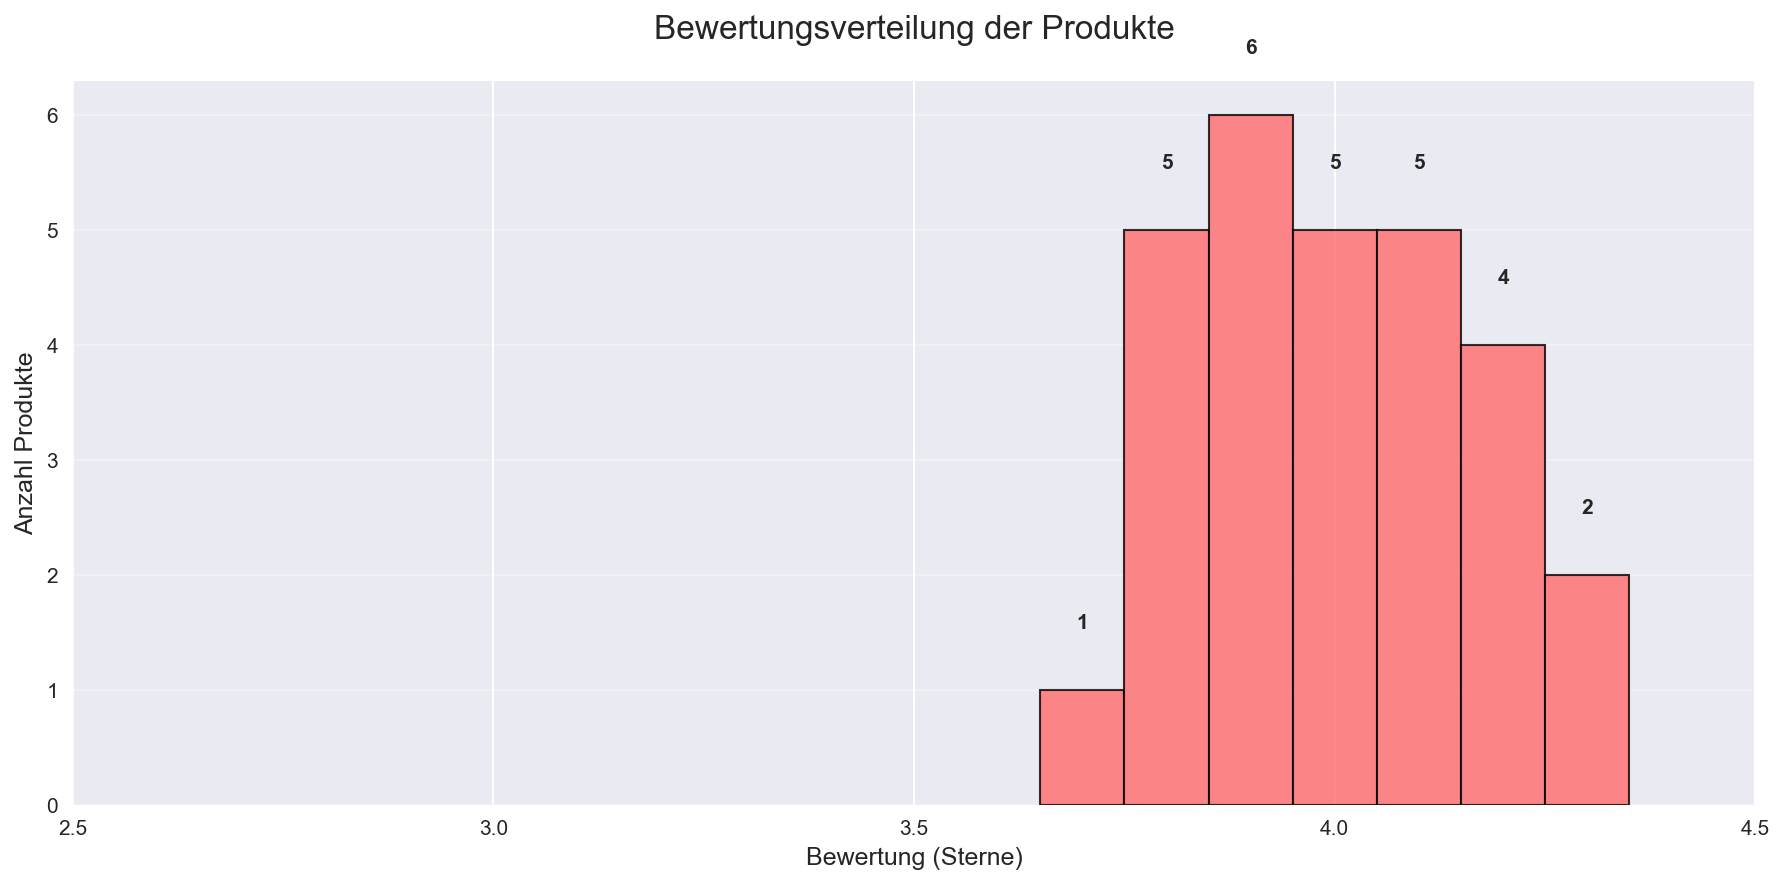
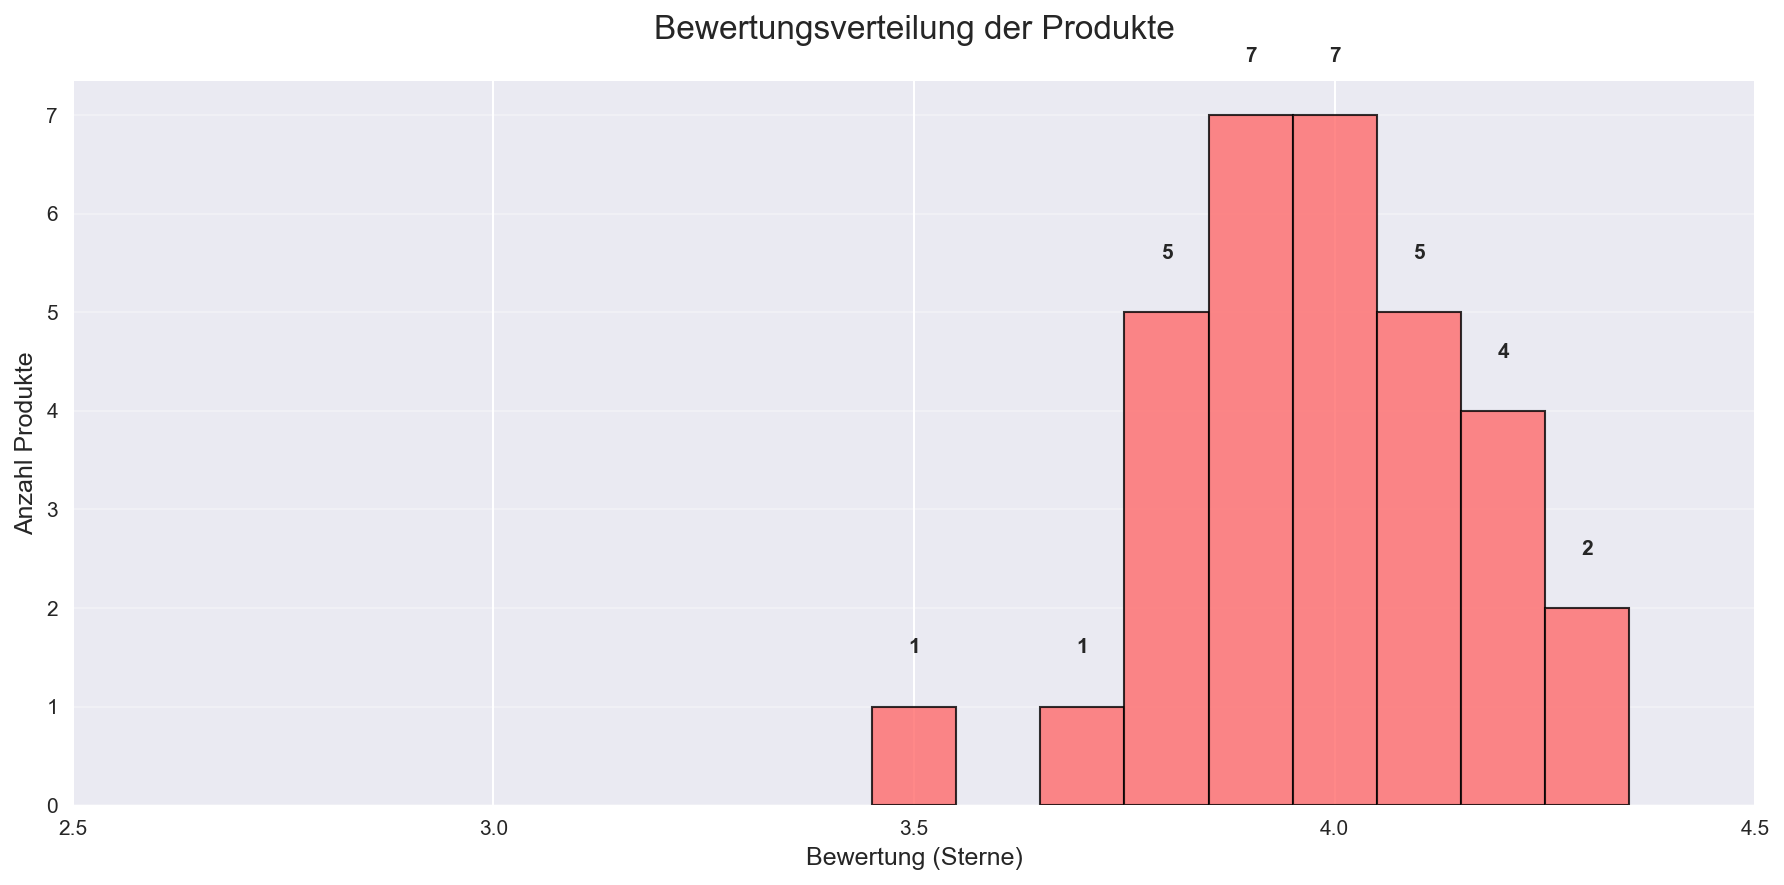
Add 4 additional cannabis products: OG Kush, Platinum Girl Scout Cookies, Blue Dream, White Widow, Island Sweet Skunk, Cheddar Cheese

diff --git a/docs/SORTEN_ÜBERSICHT.md b/docs/SORTEN_ÜBERSICHT.md
@@ -5,7 +5,7 @@
 # Sortenübersicht (Sortiert nach Anzahl der Bewertungen)
 
 Diese Übersicht wird automatisch aus der `../data/WeedDB.db` Datenbank generiert.
-**Letzte Aktualisierung:** 15.11.2025 01:26
+**Letzte Aktualisierung:** 15.11.2025 01:31
 
 Um diese Datei zu aktualisieren, führe aus: `python3 generate_overview.py`
 
@@ -16,7 +16,7 @@ Hier ist eine Zusammenfassung der Top-Sorten in verschiedenen Kategorien, inklus
 | Kategorie | Sorte | Link |
 | :--- | :--- | :--- |
 | **Höchster THC-Gehalt** | Amnesia Haze Cake | [Link](https://shop.dransay.com/product/p/460) |
-| **Bestes Preis-Leistungs-Verhältnis** | Wedding Cake | [Link](https://shop.dransay.com/product/p/1036) |
+| **Bestes Preis-Leistungs-Verhältnis** | Cheddar Cheese | [Link](https://shop.dransay.com/product/p/3989320) |
 | **Günstigster Preis** | Pink Kush | [Link](https://shop.dransay.com/product/p/751) |
 | **Community-Liebling (Beste Bewertung)** | Amnesia Haze Cake | [Link](https://shop.dransay.com/product/p/460) |
 | **Am populärsten (Meiste Reviews)** | Sourdough | [Link](https://shop.dransay.com/product/p/973) |
@@ -41,26 +41,30 @@ Sorten, die in einer der Top-Kategorien die besten sind, sind in der folgenden T
 | [Black Cherry Punch](https://shop.dransay.com/product/p/698) | Enua | 22.0 | Indica | 4.1 | 1559 | 4.13 |
 | [Chemango Kush](https://shop.dransay.com/product/p/953) | Aurora Cannabis | 31.0 | Indica | 4.1 | 1337 | 6.83 |
 | [Amnesia Haze Cake](https://shop.dransay.com/product/p/460) 🏆 **Community-Liebling** 🏆 **Höchster THC-Gehalt** | Avaay | 32.0 | Indica | 4.3 | 1267 | 9.48 |
+| [White Widow](https://shop.dransay.com/product/p/808) | N/A | 16.0 | Indica | 3.5 | 1136 | 4.05 |
 | [Big Purple Dragon](https://shop.dransay.com/product/p/174099) | Cantourage | 25.0 | Indica | 3.9 | 1102 | 4.59 |
 | [Blue Z](https://shop.dransay.com/product/p/423) | Bathera | 28.0 | Indica | 4.2 | 1038 | 7.08 |
+| [OG Kush](https://shop.dransay.com/product/p/882) | Cannamedical | 24.0 | Indica | 3.9 | 756 | 4.98 |
 | [Polar Cookies](https://shop.dransay.com/product/p/91) | Cannamedical | 28.0 | Indica | 4.0 | 624 | 7.36 |
 | [OG Lime Kush](https://shop.dransay.com/product/p/3603596) | ZOIKS | 26.0 | Indica | 4.0 | 584 | N/A |
 | [Farm Gas](https://shop.dransay.com/product/p/620) | Aurora Cannabis | 27.0 | Indica | 3.9 | 512 | 4.98 |
 | [Mac Doughnut](https://shop.dransay.com/product/p/622) | Cantourage | 25.0 | Indica | 3.8 | 499 | 4.99 |
+| [Island Sweet Skunk](https://shop.dransay.com/product/p/845) | Aurora Cannabis | 20.0 | Indica | 3.9 | 470 | 4.7 |
 | [Tropic Thunder](https://shop.dransay.com/product/p/1113) | Cantourage | 25.0 | Indica | 4.0 | 461 | 4.99 |
 | [Tubitti Frubitti](https://shop.dransay.com/product/p/3426990) | Avaay | 31.0 | Indica | 4.2 | 440 | N/A |
 | [Pink Kush](https://shop.dransay.com/product/p/751) 🏆 **Günstigster Preis** | enua Pharma | 22.0 | Indica | 3.9 | 300 | 3.5 |
 | [Ultra Dosed Candy](https://shop.dransay.com/product/p/3429693) | Barongo | 24.0 | Indica | 4.3 | 229 | 5.99 |
 | [Haymaker Haze](https://shop.dransay.com/product/p/1495373) | Tyson | 32.0 | Indica | 4.1 | 202 | 8.38 |
-| [Sweets (Guava Gelato x Karma Sour Diesel BX2)](https://shop.dransay.com/product/p/1081) | enua Pharma | 22.0 | Indica | 3.7 | 200 | 4.15 |
+| [Sweets (Guava Gelato x Karma Sour Diesel BX2)](https://shop.dransay.com/product/p/1081) | enua Pharma | 22.0 | Indica | 3.7 | 201 | 4.15 |
 | [Pineapple Express](https://shop.dransay.com/product/p/3587105) | Cannamedical | 24.0 | Indica | 3.8 | 182 | 5.99 |
 | [Frozen Lemon Haze](https://shop.dransay.com/product/p/3603598) | Aurora Cannabis | 25.0 | Indica | 4.2 | 152 | 7.29 |
 | [LA Animal](https://shop.dransay.com/product/p/3826820) | Barongo | 30.0 | Indica | 4.1 | 122 | 6.99 |
 | [Tropic Boom Popstars](https://shop.dransay.com/product/p/3552271) | Barongo | 24.0 | Indica | 3.9 | 121 | 5.3 |
 | [Blue Dream](https://shop.dransay.com/product/p/585) | IMC | 7.0 | Indica | 3.8 | 102 | 5.39 |
-| [Wedding Cake](https://shop.dransay.com/product/p/1036) 🏆 **Bestes Preis-Leistungs-Verhältnis** | Amici | 29.0 | Indica | 3.8 | 98 | 4.46 |
+| [Wedding Cake](https://shop.dransay.com/product/p/1036) | Amici | 29.0 | Indica | 3.8 | 98 | 4.46 |
 | [Sour Sundae](https://shop.dransay.com/product/p/2297720) | Cannamedical | 24.0 | Indica | 3.9 | 91 | 4.99 |
 | [Gorilla Glue](https://shop.dransay.com/product/p/70) | IMC | 22.0 | Indica | 4.0 | 84 | 4.99 |
 | [Alexander The Great](https://shop.dransay.com/product/p/3590755) | Tyson | 26.0 | Indica | 4.2 | 46 | N/A |
 | [Crumbled Lime #27](https://shop.dransay.com/product/p/3685255) | Demecan | 22.0 | Indica | 4.1 | 45 | 4.99 |
-| [Platinum Girl Scout Cookies](https://shop.dransay.com/product/p/2372957) | Bathera | 25.0 | Indica | 3.9 | 35 | 5.89 |
+| [Platinum Girl Scout Cookies](https://shop.dransay.com/product/p/2372957) | Bathera | 25.0 | Indica | 4.0 | 35 | 5.89 |
+| [Cheddar Cheese](https://shop.dransay.com/product/p/3989320) 🏆 **Bestes Preis-Leistungs-Verhältnis** | Barongo | 30.0 | Indica | 4.0 | 10 | 4.6 |

diff --git a/docs/DATEN_VISUALISIERUNGEN.md b/docs/DATEN_VISUALISIERUNGEN.md
@@ -10,7 +10,7 @@ description: Datenvisualisierungen und Diagramme für WeedDB
 # 📊 WeedDB Datenvisualisierungen
 
 Diese Seite enthält automatisch generierte Diagramme und Visualisierungen der WeedDB-Daten.
-**Letzte Aktualisierung:** 15.11.2025 01:26
+**Letzte Aktualisierung:** 15.11.2025 01:31
 
 ## 📈 Preisverläufe
 
@@ -36,8 +36,8 @@ Diese Seite enthält automatisch generierte Diagramme und Visualisierungen der W
 
 | Metrik | Wert |
 |--------|------|
-| Gesamtprodukte | 28 |
-| Durchschnittliche Bewertung | 4.00 ⭐ |
+| Gesamtprodukte | 32 |
+| Durchschnittliche Bewertung | 3.98 ⭐ |
 | Höchster THC-Gehalt | 30%+ |
 | Niedrigster THC-Gehalt | < 20% |
 
